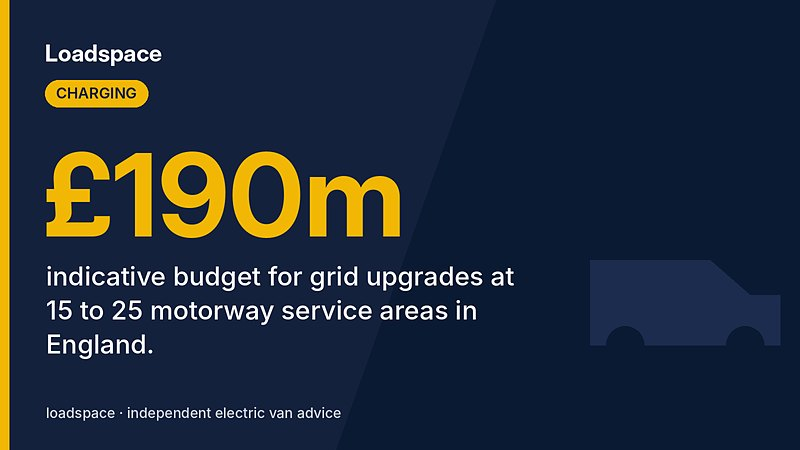
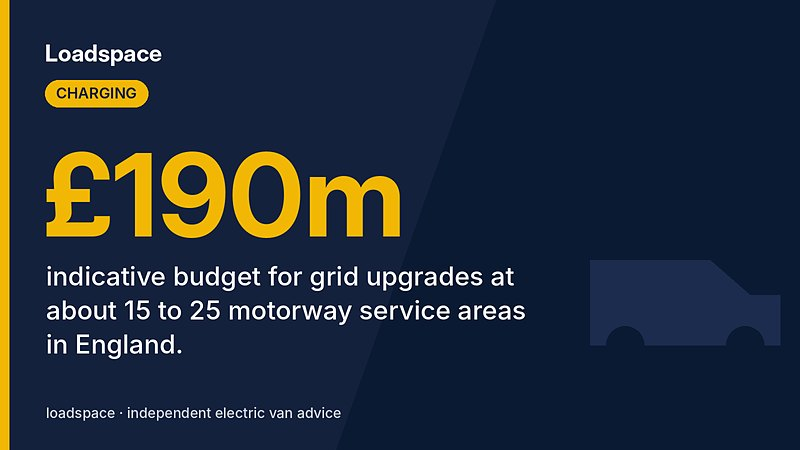
News: fix points raised by fact-checkers (draft)
Claude-Session: https://claude.ai/code/session_01Y739fGRorrAUGqAGqyHfoK

Changed region(s): [[0.0625, 0.6533, 0.6562, 0.8089]]

diff --git a/src/pages/news/motorway-services-charging-scheme-watchdog-report.md b/src/pages/news/motorway-services-charging-scheme-watchdog-report.md
@@ -1,13 +1,14 @@
 ---
 layout: ../../layouts/NewsPost.astro
-title: "£190m plan for more charging at motorway services: watchdog wants more work"
+title: "£190m plan for more charging at motorway services: watchdog's advisers ask for more work"
 date: 2026-11-05T09:00:00Z
 tag: Charging
-summary: "The government plans to pay for grid upgrades at 15 to 25 motorway service areas in England, so they can host more chargers for cars, vans and trucks. The competition watchdog's subsidy advisers have now said what it still needs to prove."
+summary: "The government plans to pay for grid upgrades at 15 to 25 motorway service areas in England, so they can host more chargers for cars, vans and trucks. The competition watchdog's subsidy advisers have now said where the government's case needs more work."
 stat: "£190m"
-statLabel: "indicative budget for grid upgrades at 15 to 25 motorway service areas in England."
+statLabel: "indicative budget for grid upgrades at about 15 to 25 motorway service areas in England."
 sources:
   - https://www.gov.uk/cma-cases/referral-of-the-proposed-strategic-charging-infrastructure-scheme-by-the-office-for-zero-emission-vehicles
+  - https://www.gov.uk/government/organisations/subsidy-advice-unit
   - https://www.gov.uk/government/publications/report-on-the-proposed-strategic-charging-infrastructure-scheme-by-the-office-for-zero-emission-vehicles
   - https://assets.publishing.service.gov.uk/media/6aeb43f03b14fe642d4194d7/Final_report_4_November_2026.pdf
 facts:
@@ -37,8 +38,14 @@ facts:
     source: https://assets.publishing.service.gov.uk/media/6aeb43f03b14fe642d4194d7/Final_report_4_November_2026.pdf
     quote: "aims to meet projected EV charging demand at selected sites until at least 2035 and, in some cases, until 2050"
   - claim: "where the gap between today's capacity and future needs is biggest"
+    source: https://www.gov.uk/cma-cases/referral-of-the-proposed-strategic-charging-infrastructure-scheme-by-the-office-for-zero-emission-vehicles
+    quote: "The scheme will focus on MSA sites where the gap between current and future capacity is greatest and the costs of upgrading the network are not commercially viable."
+  - claim: "Whether the work can be delivered, the geographic spread and sharing support across operators also count"
     source: https://assets.publishing.service.gov.uk/media/6aeb43f03b14fe642d4194d7/Final_report_4_November_2026.pdf
-    quote: "Sites will be chosen based on the gap between current and future capacity and where the costs of upgrading the network are not commercially viable."
+    quote: "Site selection will also take account of deliverability, geographical distribution and the spread of support across MSAOs."
+  - claim: "about 15 to 25 motorway service areas"
+    source: https://assets.publishing.service.gov.uk/media/6aeb43f03b14fe642d4194d7/Final_report_4_November_2026.pdf
+    quote: "The Scheme is expected to support approximately 15 to 25 MSAs"
   - claim: "reserve the extra power for service area operators or chargepoint companies"
     source: https://assets.publishing.service.gov.uk/media/6aeb43f03b14fe642d4194d7/Final_report_4_November_2026.pdf
     quote: "reserving the resulting electricity capacity for MSAOs or CPOs to deploy open-access EV charging infrastructure"
@@ -61,22 +68,49 @@ facts:
   - claim: "proposed by the Office for Zero Emission Vehicles (OZEV)"
     source: https://assets.publishing.service.gov.uk/media/6aeb43f03b14fe642d4194d7/Final_report_4_November_2026.pdf
     quote: "The Strategic Charging Infrastructure scheme is proposed by OZEV to support the expansion of electric vehicle (EV) charging at MSAs"
+  - claim: "\"Scheme of Particular Interest\""
+    source: https://www.gov.uk/cma-cases/referral-of-the-proposed-strategic-charging-infrastructure-scheme-by-the-office-for-zero-emission-vehicles
+    quote: "This request relates to a Scheme of Particular Interest."
+  - claim: "some firms could receive more than £25 million in total"
+    source: https://assets.publishing.service.gov.uk/media/6aeb43f03b14fe642d4194d7/Final_report_4_November_2026.pdf
+    quote: "may result in beneficiaries receiving a number of subsidies which in total exceed £25 million"
   - claim: "individual subsidies are expected to top £1 million"
     source: https://assets.publishing.service.gov.uk/media/6aeb43f03b14fe642d4194d7/Final_report_4_November_2026.pdf
     quote: "In particular, individual subsidies are expected to exceed £1 million"
-  - claim: "24 September"
+  - claim: "18 September"
+    source: https://assets.publishing.service.gov.uk/media/6aeb43f03b14fe642d4194d7/Final_report_4_November_2026.pdf
+    quote: "On 18 September 2026, the Office for Zero Emission Vehicles (OZEV) requested a report from the Subsidy Advice Unit"
+  - claim: "the unit accepted it on 24 September"
     source: https://www.gov.uk/cma-cases/referral-of-the-proposed-strategic-charging-infrastructure-scheme-by-the-office-for-zero-emission-vehicles
     quote: "24 September 2026: The SAU has accepted a request for a report from OZEV concerning the proposed Strategic Charging Infrastructure Scheme."
   - claim: "4 November"
     source: https://www.gov.uk/cma-cases/referral-of-the-proposed-strategic-charging-infrastructure-scheme-by-the-office-for-zero-emission-vehicles
     quote: "4 November 2026: The SAU has published its report providing advice to OZEV concerning the proposed Strategic Charging Infrastructure Scheme."
+  - claim: "which is part of the Competition and Markets Authority"
+    source: https://www.gov.uk/government/organisations/subsidy-advice-unit
+    quote: "SAU is part of the Competition and Markets Authority"
+  - claim: "points out where OZEV's assessment needs more work"
+    source: https://assets.publishing.service.gov.uk/media/6aeb43f03b14fe642d4194d7/Final_report_4_November_2026.pdf
+    quote: "However, we have identified the following areas for improvement."
+  - claim: "whether the scheme is proportionate"
+    source: https://assets.publishing.service.gov.uk/media/6aeb43f03b14fe642d4194d7/Final_report_4_November_2026.pdf
+    quote: "Principle B: Subsidies should be proportionate to their specific policy"
+  - claim: "whether it keeps harm to competition and investment as low as possible"
+    source: https://assets.publishing.service.gov.uk/media/6aeb43f03b14fe642d4194d7/Final_report_4_November_2026.pdf
+    quote: "Principle F: Subsidies should be designed to achieve their specific policy objective while minimising any negative effects on competition or investment"
+  - claim: "can't reach a firm conclusion"
+    source: https://assets.publishing.service.gov.uk/media/6aeb43f03b14fe642d4194d7/Final_report_4_November_2026.pdf
+    quote: "the Assessment cannot definitively conclude on whether the Subsidy complies with Principles B and F until these aspects of the Scheme are finalised"
+  - claim: "reducing range and charging anxiety for drivers and fleet operators"
+    source: https://assets.publishing.service.gov.uk/media/6aeb43f03b14fe642d4194d7/Final_report_4_November_2026.pdf
+    quote: "reduce range and charging anxiety and improve confidence in undertaking long-distance electric vehicle journeys, increasing public and fleet operator confidence"
   - claim: "non-binding advice"
     source: https://assets.publishing.service.gov.uk/media/6aeb43f03b14fe642d4194d7/Final_report_4_November_2026.pdf
     quote: "This report is provided as non-binding advice to OZEV."
   - claim: "clearly described and evidenced"
     source: https://assets.publishing.service.gov.uk/media/6aeb43f03b14fe642d4194d7/Final_report_4_November_2026.pdf
     quote: "OZEV has clearly described and evidenced the policy objective (Principle A), and carried out a comprehensive balancing test"
-  - claim: "extra investment"
+  - claim: "how much **extra investment** the scheme brings"
     source: https://assets.publishing.service.gov.uk/media/6aeb43f03b14fe642d4194d7/Final_report_4_November_2026.pdf
     quote: "Provide more detail and evidence on the extent to which the Scheme delivers additional investment relative to the counterfactual"
   - claim: "leave out sites where investment would have happened anyway"
@@ -87,7 +121,7 @@ facts:
     quote: "Consider whether the Scheme contains sufficient mechanisms to ensure that subsidies granted under the scheme result in additional charging capacity"
   - claim: "nearby charging sites away from motorway services"
     source: https://assets.publishing.service.gov.uk/media/6aeb43f03b14fe642d4194d7/Final_report_4_November_2026.pdf
-    quote: "impacts on local competition with non-MSAOs and between on-site Charge Point Operators (CPOs)"
+    quote: "how subsidising MSAs might impact competition at a local level. This could include other MSAs but also non-MSAOs in the local area who could face more significant impacts"
   - claim: "the exact size of the subsidy, the cap on connection costs it will cover, and how long the capacity will be reserved"
     source: https://assets.publishing.service.gov.uk/media/6aeb43f03b14fe642d4194d7/Final_report_4_November_2026.pdf
     quote: "particularly those related to the precise size of the subsidy awarded to beneficiaries under the Scheme, the cap on site connection costs that will be funded, and the reservation period"
@@ -99,34 +133,34 @@ facts:
     quote: "support a visible and reliable long-distance charging network which reduces gaps in charging provision along the motorway network"
 ---
 
-The government wants to pay for **electricity grid upgrades at 15 to 25 motorway service areas in England**, so they can host far more chargers for cars, vans, trucks, coaches and motorbikes. The plan, called the **Strategic Charging Infrastructure Scheme**, has an indicative budget of **£190 million**.
+The government wants to pay for **electricity grid upgrades at about 15 to 25 motorway service areas in England**, so they can host far more chargers for cars, vans, trucks, coaches and motorbikes. The plan, called the **Strategic Charging Infrastructure Scheme**, has an indicative budget of **£190 million**.
 
-The scheme is proposed by the Office for Zero Emission Vehicles (OZEV). Because individual subsidies are expected to top £1 million, OZEV asked the Subsidy Advice Unit, part of the Competition and Markets Authority, to look at it. OZEV made that request on 24 September, and the unit published its report on **4 November**. The report is non-binding advice: it doesn't approve or block the scheme, but it tells OZEV what it still needs to show.
+The scheme is proposed by the Office for Zero Emission Vehicles (OZEV). OZEV says it counts as a "Scheme of Particular Interest": individual subsidies are expected to top £1 million, and some firms could receive more than £25 million in total. So OZEV asked the Subsidy Advice Unit, which is part of the Competition and Markets Authority, to look at it. OZEV made that request on 18 September, the unit accepted it on 24 September, and it published its report on **4 November**. The report is non-binding advice: it doesn't approve or block the scheme, but it points out where OZEV's assessment needs more work.
 
 ## How the scheme would work
 
 - **The government pays for the grid work.** OZEV would commission the upgrades at chosen sites, then reserve the extra power for service area operators or chargepoint companies to put in public chargers open to any electric vehicle.
 - **Firms still pay something.** They'd pay a charge to use the reserved capacity, which OZEV would partly waive to make the sums work. They also pay for the chargers themselves and the rest of the on-site kit.
 - **The reservation won't last forever.** OZEV currently plans to hold the capacity for three to five years. Anything not taken up by then goes to any energy user, without the subsidy.
-- **Sites are picked on need.** OZEV would choose places where the gap between today's capacity and future needs is biggest, and where upgrading the grid isn't commercially viable. The aim is to meet expected charging demand at those sites until at least 2035, and in some cases until 2050.
+- **Sites are picked mainly on need.** OZEV would focus on places where the gap between today's capacity and future needs is biggest, and where upgrading the grid isn't commercially viable. Whether the work can be delivered, the geographic spread and sharing support across operators also count. The aim is to meet expected charging demand at those sites until at least 2035, and in some cases until 2050.
 - **The money** comes from the £400 million set aside in Spending Review 2025 for charging between 2026 and 2030.
 
 ## What the watchdog's advisers said
 
 The report says OZEV has clearly described and evidenced what the scheme is for, and weighed its benefits against its downsides in detail. But it asks OZEV to do more work in several areas, including:
 
-- showing the scheme brings **extra investment**, and how it will leave out sites where investment would have happened anyway;
+- giving more detail and evidence on how much **extra investment** the scheme brings, and how it will leave out sites where investment would have happened anyway;
 - checking it has ways to make sure the money actually adds charging capacity;
 - looking harder at the effect on competition, including on nearby charging sites away from motorway services.
 
-Some key details still aren't settled: the exact size of the subsidy, the cap on connection costs it will cover, and how long the capacity will be reserved. The report says OZEV can't fully show the scheme meets the rules until those are decided.
+Some key details still aren't settled: the exact size of the subsidy, the cap on connection costs it will cover, and how long the capacity will be reserved. The report says OZEV's assessment can't reach a firm conclusion on whether the scheme is proportionate, or whether it keeps harm to competition and investment as low as possible, until those are decided.
 
 ## What it means for you
 
-If your vans do long motorway days, this is aimed at your biggest worry: finding a working charger at the services. One of OZEV's stated aims is a visible and reliable long-distance charging network.
+If your vans do long motorway days, this is aimed at a common worry: finding a charger at the services. OZEV's stated aims include a visible and reliable long-distance charging network, and reducing range and charging anxiety for drivers and fleet operators.
 
-Truck operators are included too. OZEV's own assessment, quoted in the report, says electric HGV charging is at an early stage, with fewer than ten public locations.
+Truck operators are included too. According to OZEV's assessment, as summarised in the report, electric HGV charging is at an early stage, with fewer than ten public locations.
 
 **Nothing changes yet.** The scheme is still a proposal, and the report doesn't name any sites or give a start date. We'll report when OZEV confirms the final design.
 
-Thinking about charging for your own fleet? Our [van grant guide](/news/zero-emission-van-grant-explained/) covers what help there is with buying the van.
+Thinking of switching to electric? Our [van grant guide](/news/zero-emission-van-grant-explained/) covers the help available with buying the van.
